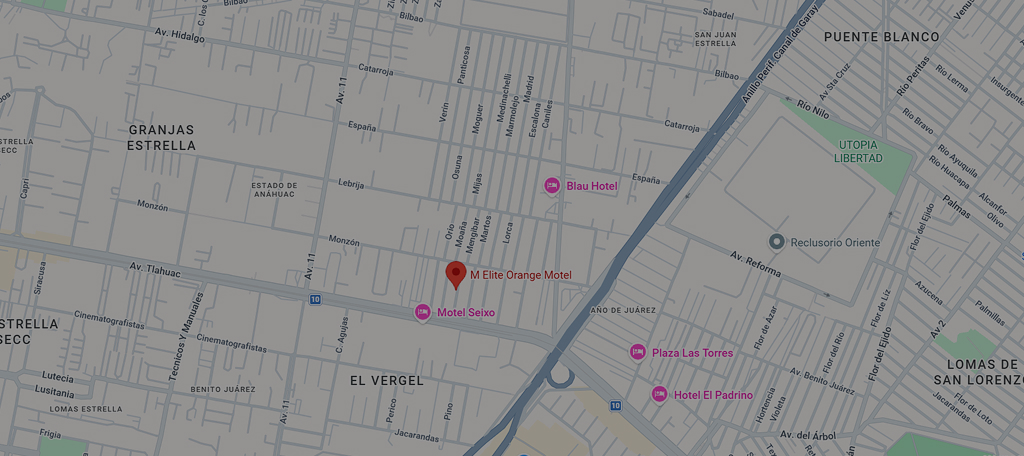
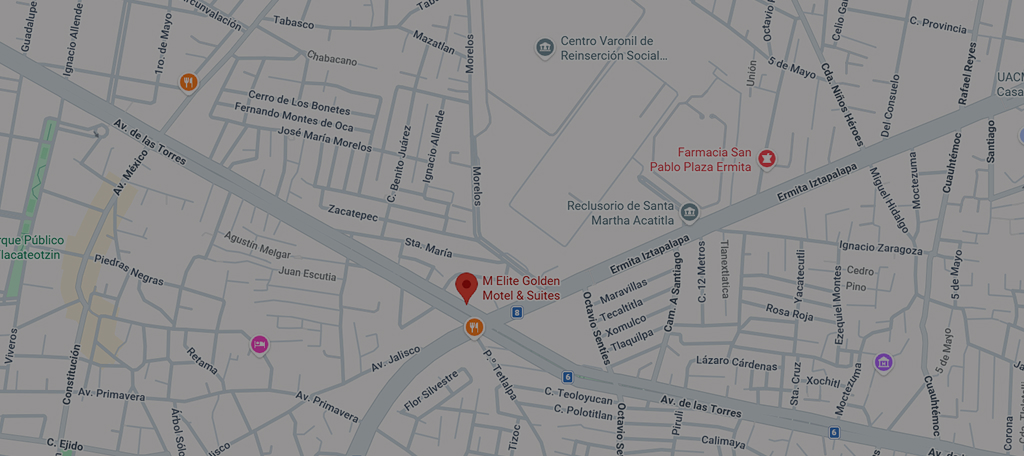
Ajustes maps, rota, mapa

Changed region(s): [[0.0, 0.0, 1.0, 1.0], [0.625, 0.1842, 0.6562, 0.2149]]

diff --git a/componentes/gm-footer.html b/componentes/gm-footer.html
@@ -62,7 +62,7 @@
                 <ul>
                     <li>
                         <a
-                            href="https://www.google.com/maps/dir//M+Elite+Orange+Motel,+Mieres+49,+Cerro+de+la+Estrella,+Iztapalapa,+09860+Ciudad+de+M%C3%A9xico,+CDMX,+M%C3%A9xico/@19.3203731,-99.0816015,17z/"
+                            href="https://www.google.com/maps/dir//M+Elite+Golden+Motel+%26+Suites,+Eje+5+sur,+Av.+de+las+Torres+142,+Zacatepec,+Iztapalapa,+09560+CDMX,+M%C3%A9xico/@19.3529196,-99.0180142,17z/"
                             target="_blank"
                             class="btn btn-dark"
                             >Trazar ruta</a

diff --git a/direccion.html b/direccion.html
@@ -61,7 +61,7 @@
                     <div class="localizacao__content--text">
                         <h3><gm-endereco></gm-endereco></h3>
                         <a
-                            href="https://www.google.com/maps/dir//M+Elite+Orange+Motel,+Mieres+49,+Cerro+de+la+Estrella,+Iztapalapa,+09860+Ciudad+de+M%C3%A9xico,+CDMX,+M%C3%A9xico/@19.3203731,-99.0816015,17z/"
+                            href="https://www.google.com/maps/dir//M+Elite+Golden+Motel+%26+Suites,+Eje+5+sur,+Av.+de+las+Torres+142,+Zacatepec,+Iztapalapa,+09560+CDMX,+M%C3%A9xico/@19.3529196,-99.0180142,17z/"
                             class="btn btn-dark"
                             target="_blank"
                             >Trazar ruta</a

diff --git a/index.html b/index.html
@@ -161,7 +161,7 @@
                     </div>
                     <div class="local__content--btn col-md-5">
                         <a
-                            href="https://www.google.com/maps/dir//M+Elite+Orange+Motel,+Mieres+49,+Cerro+de+la+Estrella,+Iztapalapa,+09860+Ciudad+de+M%C3%A9xico,+CDMX,+M%C3%A9xico/@19.3203731,-99.0816015,17z/"
+                            href="https://www.google.com/maps/dir//M+Elite+Golden+Motel+%26+Suites,+Eje+5+sur,+Av.+de+las+Torres+142,+Zacatepec,+Iztapalapa,+09560+CDMX,+M%C3%A9xico/@19.3529196,-99.0180142,17z/"
                         >
                             Trazar ruta
                             <svg width="44" height="31" viewBox="0 0 44 31" fill="none" xmlns="http://www.w3.org/2000/svg">